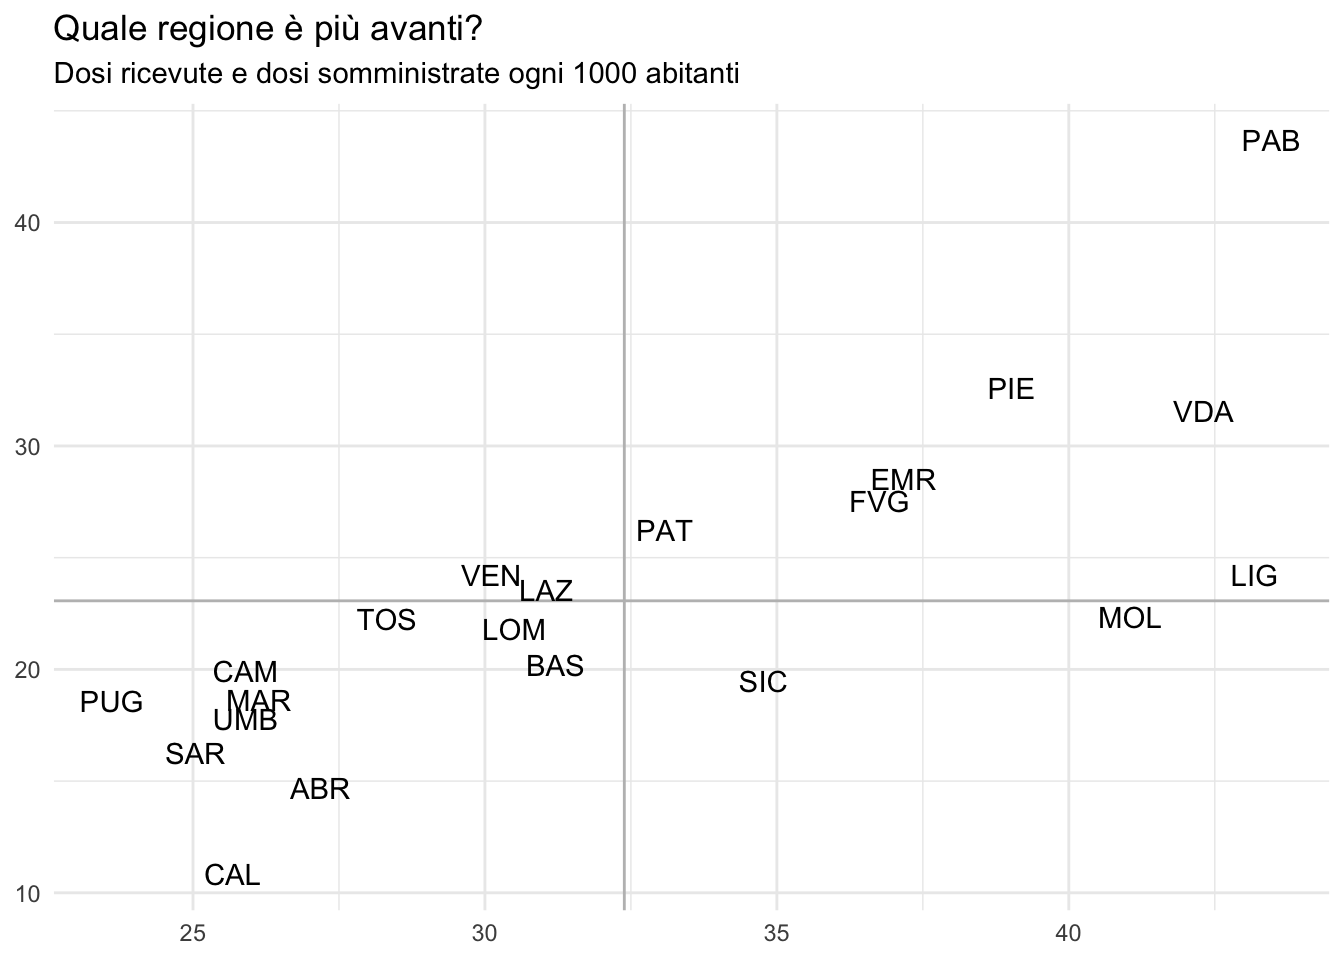
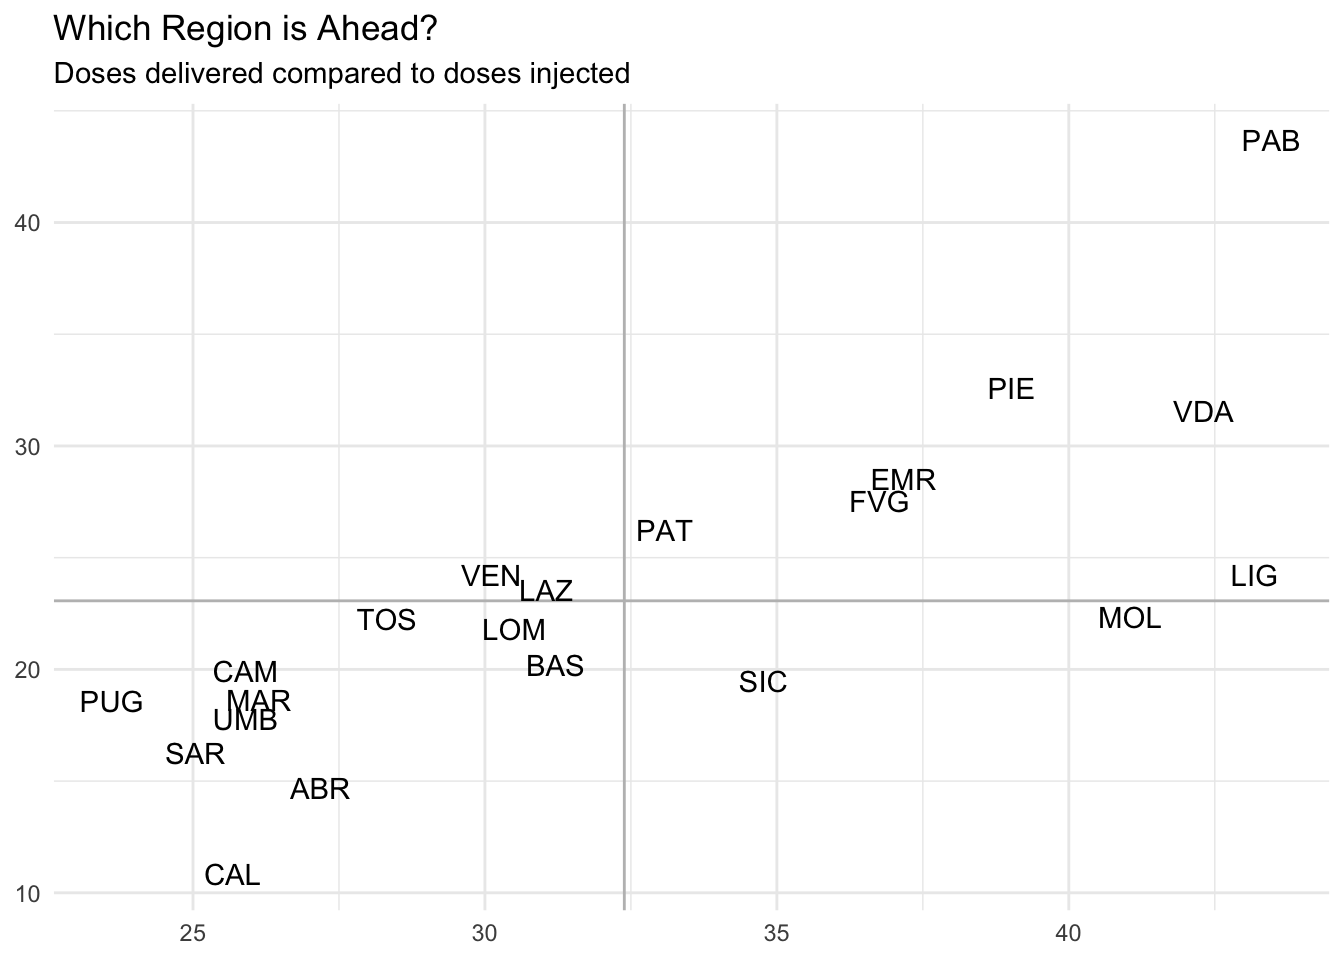
better covid-19 viz

Changed region(s): [[0.0312, 0.0, 0.5625, 0.0938]]

diff --git a/content/post/2021-01-23-covid-19-vaccinations-italy/index.html b/content/post/2021-01-23-covid-19-vaccinations-italy/index.html
@@ -167,8 +167,8 @@ totals_by_area</code></pre>
   # xlim(0,100) +
   # ylim(0,100) +
   labs(
-    title = &#39;Quale regione è più avanti?&#39;,
-    subtitle = &#39;Dosi ricevute e dosi somministrate ogni 1000 abitanti&#39;,
+    title = &#39;Which Region is Ahead?&#39;,
+    subtitle = &#39;Doses delivered compared to doses injected&#39;,
     x = NULL,
     y = NULL
   )</code></pre>
